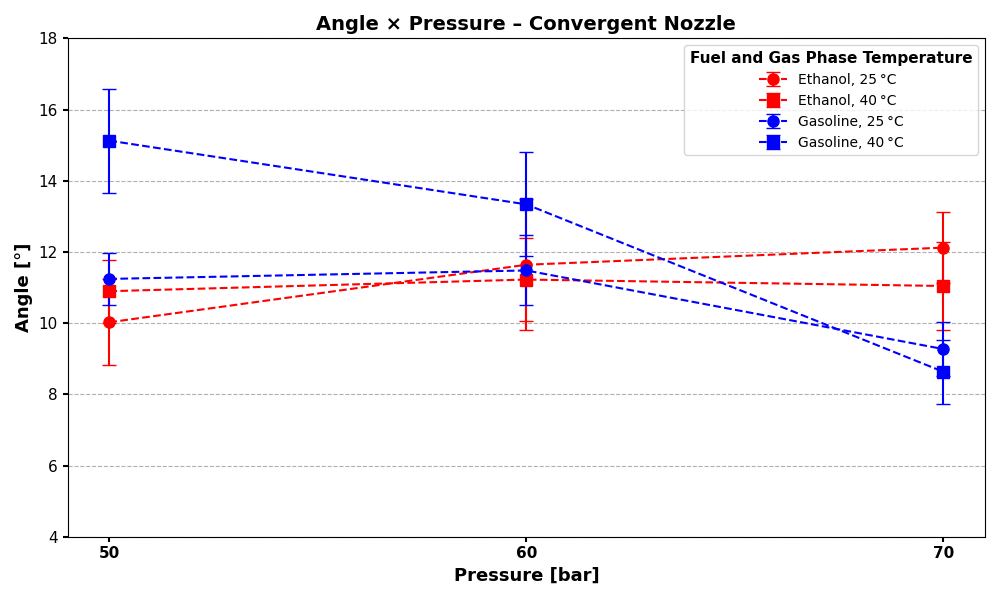
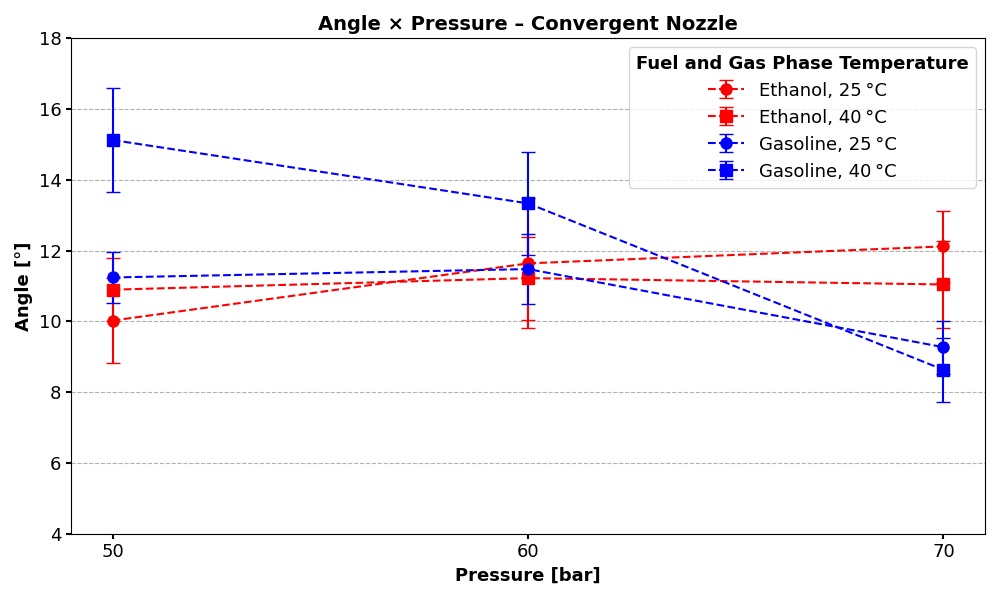
add

diff --git a/mass_angle_plot.py b/mass_angle_plot.py
@@ -117,20 +117,20 @@ for nozzle_type in ['Convergent', 'Divergent']:
             )
 
     ax.set_xticks([0, 1, 2])
-    ax.set_xticklabels(['50', '60', '70'], fontweight='bold', fontsize=12)
+    ax.set_xticklabels(['50', '60', '70'], fontsize=12)
     ax.set_yticks(Y_TICKS)
     ax.set_ylim(Y_LIMS)
     ax.set_xlabel('Pressure [bar]', fontweight='bold', fontsize=13)
     ax.set_ylabel('Angle [°]', fontweight='bold', fontsize=13)
     ax.set_title(f'Angle × Pressure – {nozzle_type} Nozzle', fontweight='bold', fontsize=14)
-    ax.tick_params(axis='y', labelsize=11, labelcolor='black', width=1.5)
-    ax.tick_params(axis='x', labelsize=11, labelcolor='black', width=1.5)
+    ax.tick_params(axis='y', labelsize=13, labelcolor='black', width=1.5)
+    ax.tick_params(axis='x', labelsize=13, labelcolor='black', width=1.5)
     ax.grid(True, axis='y', linestyle='--')
 
     legend = ax.legend(
         title='Fuel and Gas Phase Temperature',
-        title_fontproperties={'weight': 'bold', 'size': 11},
-        fontsize=10
+        title_fontproperties={'weight': 'bold', 'size': 13},
+        fontsize=13
     )
 
     fig.tight_layout()
